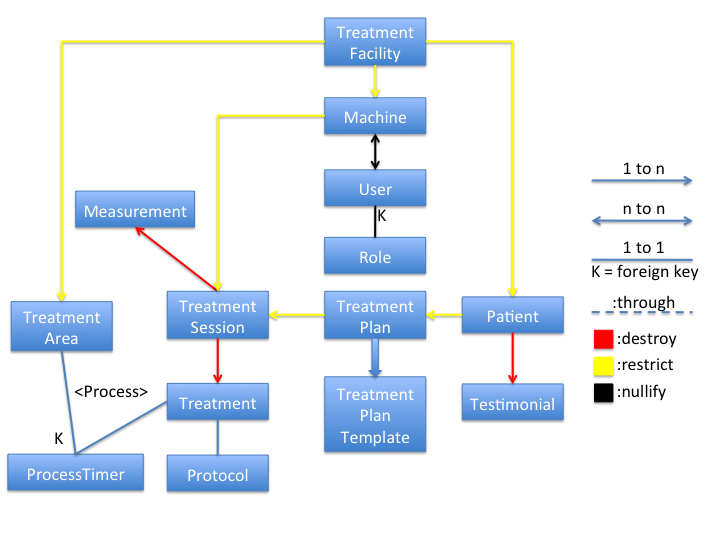
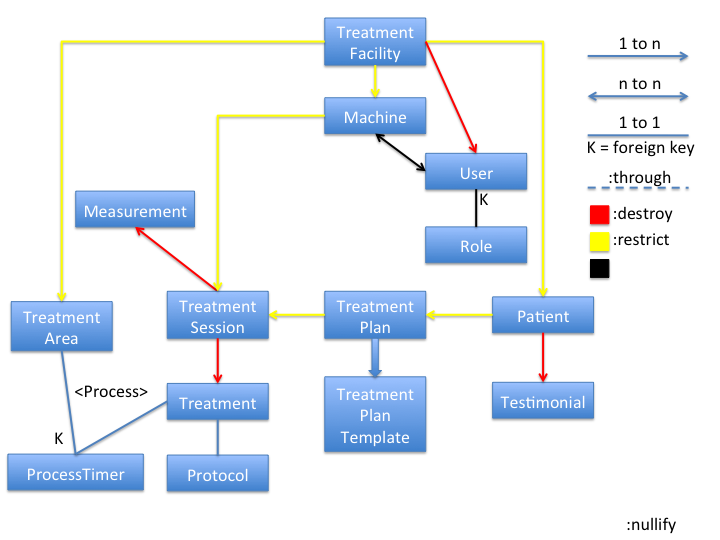
Treatment facility admin screens

diff --git a/app/assets/javascripts/treatment_facilities.js b/app/assets/javascripts/treatment_facilities.js
@@ -1,0 +1,14 @@
+function remove_machine(link) {
+  $(link).prev("input[type=hidden]").val("true");
+  $(link).closest(".machine").hide();
+}
+
+function remove_treatment_area(link) {
+  $(link).prev("input[type=hidden]").val("true");
+  $(link).closest(".treatment_area").hide();
+}
+
+function remove_user(link) {
+  $(link).prev("input[type=hidden]").val("true");
+  $(link).closest(".user").hide();
+}

diff --git a/app/assets/stylesheets/main.css b/app/assets/stylesheets/main.css
@@ -33,3 +33,8 @@ input[type="text"],
 label {
 	display:inline;
 }
+
+.close {
+	float: right;
+	margin-right: 75px;
+}

diff --git a/app/helpers/treatment_facilities_helper.rb b/app/helpers/treatment_facilities_helper.rb
@@ -1,0 +1,35 @@
+module TreatmentFacilitiesHelper  
+  def add_machine(facility, form_builder)
+    # Precompute the html for a new machine block by calling render on the same partial used for display
+    # The index is just "NEW_RECORD", since it doesn't exist yet; it will be replaced later
+    # Add a link with the text "Add Machine" and the id "add_machine"
+    # The inline Javascript takes the precomputed html block for a new license, replaces NEW_RECORD with a
+    #  dynamically computed unique key, and inserts it in the DOM right before the link
+    # Use #machine elements as the unique key instead of "new Date().getTime()" so that I can predict it with RSpec
+    #  
+    form_builder.fields_for :machines, facility.machines.build, :child_index => 'NEW_RECORD' do |machine_form|
+      html = render(:partial => 'machine', :locals => { :f => machine_form })
+      link_to_function 'Add Machine', 
+                       "$('#{escape_javascript(html)}'.replace(/NEW_RECORD/g, $('.machine').length)).insertBefore('#add_machine')",
+                       :id  => "add_machine"
+    end
+  end
+
+  def add_treatment_area(facility, form_builder)
+    form_builder.fields_for :treatment_areas, facility.treatment_areas.build, :child_index => 'NEW_RECORD' do |area_form|
+      html = render(:partial => 'treatment_area', :locals => { :f => area_form })
+      link_to_function 'Add Treatment Area', 
+                       "$('#{escape_javascript(html)}'.replace(/NEW_RECORD/g, $('.treatment_area').length)).insertBefore('#add_treatment_area')",
+                       :id  => "add_treatment_area"
+    end
+  end
+
+  def add_user(facility, form_builder)
+    form_builder.fields_for :users, facility.users.build, :child_index => 'NEW_RECORD' do |user_form|
+      html = render(:partial => 'user', :locals => { :f => user_form })
+      link_to_function 'Add User', 
+                       "$('#{escape_javascript(html)}'.replace(/NEW_RECORD/g, $('.user').length)).insertBefore('#add_user')",
+                       :id  => "add_user"
+    end
+  end
+end

diff --git a/db/schema.rb b/db/schema.rb
@@ -11,7 +11,7 @@
 #
 # It's strongly recommended to check this file into your version control system.
 
-ActiveRecord::Schema.define(:version => 20130129050508) do
+ActiveRecord::Schema.define(:version => 20130129235133) do
 
   create_table "machines", :force => true do |t|
     t.string   "model",                 :limit => 64,                 :null => false
@@ -22,6 +22,8 @@ ActiveRecord::Schema.define(:version => 20130129050508) do
     t.datetime "updated_at",                                          :null => false
     t.string   "display_name",          :limit => 64, :default => "", :null => false
   end
+
+  add_index "machines", ["treatment_facility_id", "display_name"], :name => "index_machines_on_treatment_facility_id_and_display_name", :unique => true
 
   create_table "machines_users", :id => false, :force => true do |t|
     t.integer "machine_id"
@@ -102,6 +104,8 @@ ActiveRecord::Schema.define(:version => 20130129050508) do
     t.datetime "updated_at",                          :null => false
   end
 
+  add_index "treatment_areas", ["treatment_facility_id", "area_name"], :name => "index_treatment_areas_on_treatment_facility_id_and_area_name", :unique => true
+
   create_table "treatment_facilities", :force => true do |t|
     t.string   "facility_name", :limit => 50, :null => false
     t.string   "facility_url"
@@ -165,6 +169,7 @@ ActiveRecord::Schema.define(:version => 20130129050508) do
     t.integer  "machine_id"
     t.datetime "created_at",                             :null => false
     t.datetime "updated_at",                             :null => false
+    t.integer  "treatment_facility_id"
   end
 
   add_index "users", ["email"], :name => "index_users_on_email", :unique => true

diff --git a/spec/models/treatment_facility_spec.rb b/spec/models/treatment_facility_spec.rb
@@ -21,6 +21,7 @@
 
 describe "TreatmentFacility" do
   let(:facility) { FactoryGirl.create(:treatment_facility) }
+  before { Role.create(:name => Role::TECHNICIAN) }
   
   subject { facility }
   
@@ -40,9 +41,41 @@ describe "TreatmentFacility" do
     facility.should respond_to(:machines)
     facility.should respond_to(:treatment_sessions)
     facility.should respond_to(:treatments)
+    facility.should respond_to(:users)
   end
   
   it { should be_valid }
+  
+  describe "users" do
+    let(:user1) { FactoryGirl.create(:user_with_role, :treatment_facility => facility, :role => Role.find_by_name(Role::TECHNICIAN)) }
+    let(:user2) { FactoryGirl.create(:user_with_role, :treatment_facility => facility, :role => Role.find_by_name(Role::TECHNICIAN)) }
+    let(:user3) { FactoryGirl.create(:user_with_role, :treatment_facility => facility, :role => Role.find_by_name(Role::TECHNICIAN)) }
+    before do
+      m1 = FactoryGirl.create(:machine, :treatment_facility => facility)
+      m2 = FactoryGirl.create(:machine, :treatment_facility => facility)
+      
+      m1.users << user1
+      m1.users << user2
+      m1.users << user3
+      m2.users << user2
+    end
+    
+    it "should find unique users" do
+      facility.users.count.should be == 3
+      facility.users.should be == [user1, user2, user3]
+    end
+    
+    describe "delete" do
+      before do
+        facility.machines.destroy_all
+        facility.destroy
+      end
+      
+      it "should have no users" do
+        User.count.should be == 0
+      end
+    end
+  end
   
   describe "Facility name" do
     context "missing" do

diff --git a/app/controllers/treatment_facilities_controller.rb b/app/controllers/treatment_facilities_controller.rb
@@ -16,31 +16,44 @@ class TreatmentFacilitiesController < ApplicationController
   
   def new
     @facility = TreatmentFacility.new
-    @facility.machines.build
   end
   
   def edit
     @facility = TreatmentFacility.find(params[:id])
-    @facility.machines.build
   end
   
+  # Users created this way are Technicians
   def create
-    @facility = TreatmentFacility.new(params[:treatment_facility])  
+    @facility = TreatmentFacility.new(params[:treatment_facility])
+    
     if @facility.save
+      @facility.users.each do |user|
+        if user.role.nil?
+          user.role = Role.find_by_name(Role::TECHNICIAN)
+          user.save!
+        end
+      end
+      
       redirect_to @facility, :notice => I18n.t('facility_created')
     else
-      @facility.machines.build
       render 'new'
     end
   end
 
+  # Users created this way are technicians
   def update
     @facility = TreatmentFacility.find(params[:id])
-
+    
     if @facility.update_attributes(params[:treatment_facility])
+      @facility.users.each do |user|
+        if user.role.nil?
+          user.role = Role.find_by_name(Role::TECHNICIAN)
+          user.save!
+        end
+      end
+      
       redirect_to @facility, :notice => I18n.t('facility_updated')
     else
-      @facility.machines.build unless @facility.machines.count > 0
       render 'edit'
     end
   end

diff --git a/app/models/treatment_facility.rb b/app/models/treatment_facility.rb
@@ -31,7 +31,7 @@ class TreatmentFacility < ActiveRecord::Base
   include ApplicationHelper
     
   attr_accessible :facility_name, :facility_url, :first_name, :last_name, :email, :phone, :fax, :address_1, :address_2, :city, :state, :zipcode,
-                  :machines_attributes
+                  :machines_attributes, :treatment_areas_attributes, :users_attributes
   
   before_validation :downcase_email
   before_validation :upcase_state
@@ -42,9 +42,11 @@ class TreatmentFacility < ActiveRecord::Base
   
   has_many :treatment_sessions, :through => :machines
   has_many :treatments, :through => :treatment_sessions
+  has_many :users, :dependent => :destroy
   
   accepts_nested_attributes_for :machines, :allow_destroy => true, :reject_if => :all_blank
   accepts_nested_attributes_for :treatment_areas, :allow_destroy => true, :reject_if => :all_blank
+  accepts_nested_attributes_for :users, :allow_destroy => true, :reject_if => :all_blank
   
   validates :facility_name, :presence => true,
                             :uniqueness => { case_sensitive: false },

diff --git a/spec/models/user_spec.rb b/spec/models/user_spec.rb
@@ -20,7 +20,8 @@
 #
 
 describe 'User' do
-  let(:user) { FactoryGirl.create(:user) }
+  let(:facility) { FactoryGirl.create(:treatment_facility) }
+  let(:user) { FactoryGirl.create(:user, :treatment_facility => facility) }
   before do
     Role.create(:name => Role::SUPER_ADMIN)
     Role.create(:name => Role::TECHNICIAN)
@@ -35,8 +36,11 @@ describe 'User' do
     user.should respond_to(:remember_me)
     user.should respond_to(:role)
     user.should respond_to(:machines)
+    user.should respond_to(:treatment_facility)
   end
-      
+     
+  its(:treatment_facility) { should == facility }
+   
   it { should be_valid }
   
   describe "duplicate email" do

diff --git a/app/models/user.rb b/app/models/user.rb
@@ -38,12 +38,13 @@ class User < ActiveRecord::Base
   devise :database_authenticatable, :registerable,
          :recoverable, :rememberable, :trackable, :validatable
 
-  belongs_to :role
-  has_and_belongs_to_many :machines
-  
   attr_accessible :email, :password, :password_confirmation, :remember_me,
-                  :role_id, :machine_ids
-  
+                  :treatment_facility_id, :machine_ids
+
+  belongs_to :role
+  belongs_to :treatment_facility
+  has_and_belongs_to_many :machines
+    
   validates :email, :presence => true,
                     :uniqueness => { case_sensitive: false },
                     :format => { with: EMAIL_REGEX }

diff --git a/spec/models/machine_spec.rb b/spec/models/machine_spec.rb
@@ -34,6 +34,10 @@ describe "Machine" do
   
   its(:treatment_facility) { should == facility }
   
+  it "should enforce unique display names" do 
+    expect { FactoryGirl.create(:machine, :treatment_facility => facility, :display_name => machine.display_name) }.to raise_exception(ActiveRecord::RecordNotUnique)
+  end
+
   it "should have a user" do
     machine.users.count.should be == 1
     machine.users.should be == [user]

diff --git a/spec/models/treatment_area_spec.rb b/spec/models/treatment_area_spec.rb
@@ -27,6 +27,10 @@ describe "TreatmentArea" do
   
   it { should be_valid }
   
+  it "should enforce unique display names" do 
+    expect { FactoryGirl.create(:treatment_area, :treatment_facility => facility, :area_name => area.area_name) }.to raise_exception(ActiveRecord::RecordNotUnique)
+  end
+  
   it "should have no process name" do
     area.process_name.should be_nil
   end

diff --git a/db/migrate/20130129211049_add_unique_display_names.rb b/db/migrate/20130129211049_add_unique_display_names.rb
@@ -1,0 +1,6 @@
+class AddUniqueDisplayNames < ActiveRecord::Migration
+  def change
+    add_index :machines, [:treatment_facility_id, :display_name], :unique => true
+    add_index :treatment_areas, [:treatment_facility_id, :area_name], :unique => true
+  end
+end
